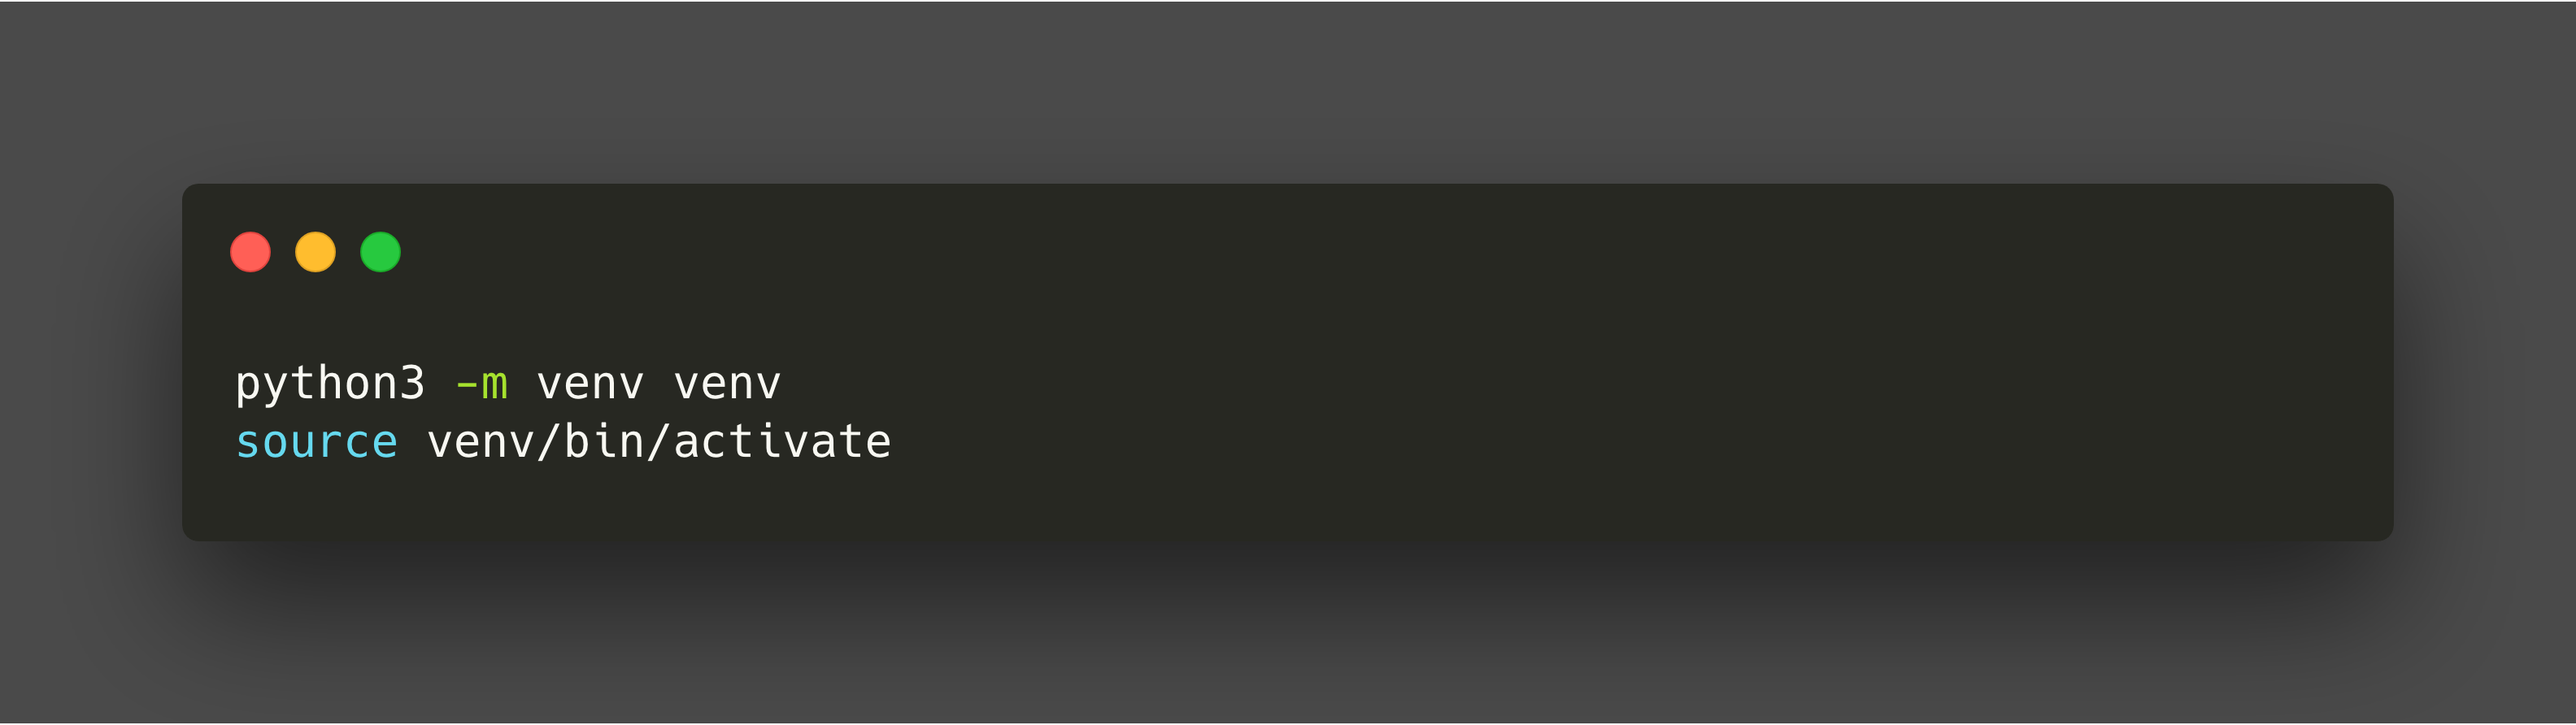
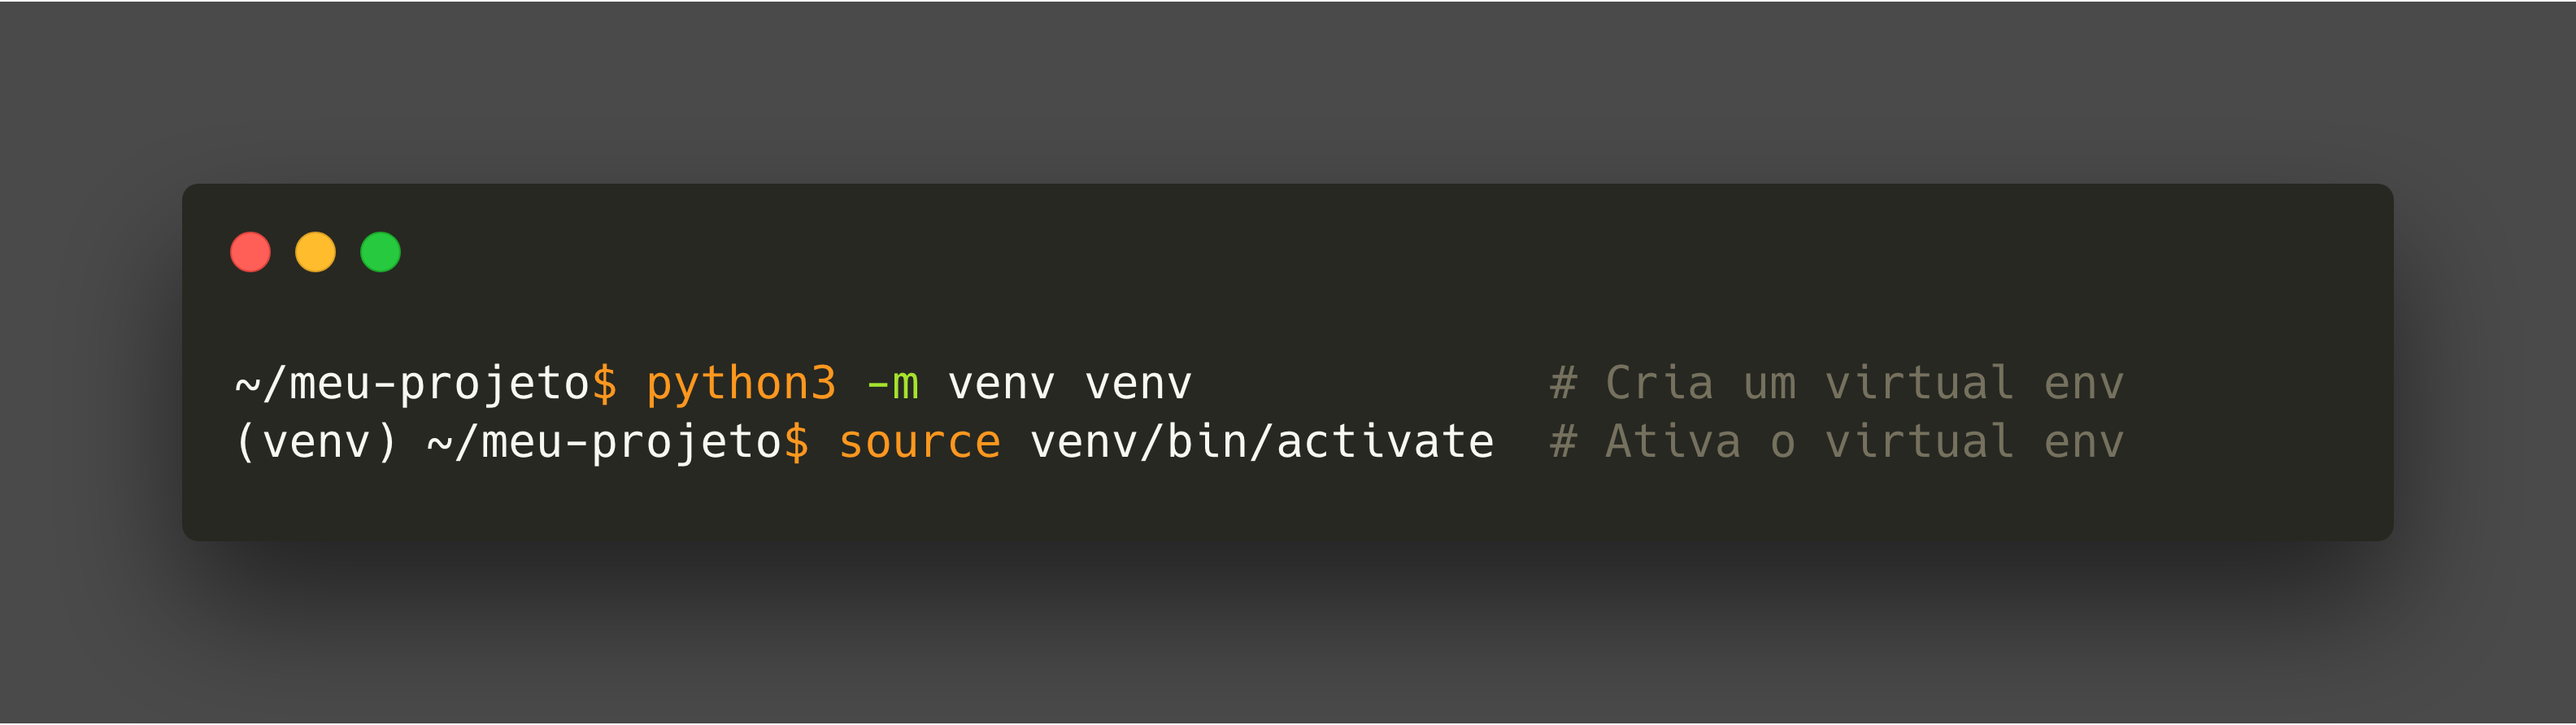
Adiciona imagens até - Dependências Heroku

Changed region(s): [[0.0938, 0.5146, 0.8438, 0.6357], [0.5938, 0.5146, 0.8438, 0.5448]]

diff --git a/GrupyABC-DjangoHerokuCloudinary.md b/GrupyABC-DjangoHerokuCloudinary.md
@@ -1,69 +1,57 @@
-Do Zero ao Deploy com Django
-============================
+Do Zero ao Deploy
+=================
+### Django + Heroku + Cloudinary
 
 --
 
-> ### O que precisa:
+> ### Vamos precisar:
 * git instalado
 * Python >= 3.7
 * Conta na Heroku
 
 ---
 
-Ambiente de Desenvolvimento
----------------------------
-```bash
-python3 -m venv venv
-source venv/bin/activate
-```
+Configurando o Ambiente de Desenvolvimento
+------------------------------------------
 
 --
 
-### Dependencias do projeto
-```bash
-pip install --upgrade pip
-pip install django
-pip freeze > requirements.txt
-```
+![Ambiente de Desenvolvimento](images/ambdev.png)
+
+---
+
+### Dependências do projeto
 
 --
+
+![Dependências do Projeto](images/dependencias-projeto.png)
+
+---
 
 ### Criando o projeto
-```
-django-admin startproject website .
-```
 
 --
 
-### Aplicando as migrações.
-```
-python manage.py migrate
-```
-
---
-
-### Rodando o projeto
-```
-python manage.py runserver
-```
+![Criando o Projeto](images/criando-projeto.png)
 
 ---
 
 ## Heroku
 > (Preparação)
 
+--
+
 O arquivo `Procfile`
-```
-web: gunicorn myproject.wsgi
-```
+
+![O arquivo Procfile](images/procfile.png)
 
 --
 
-### Dependencias Heroku
-```
-pip install gunicorn
-pip install django-heroku
-```
+### Dependências Heroku
+
+--
+
+![Dependências do Heroku](images/dependencias-heroku.png)
 
 --
 
